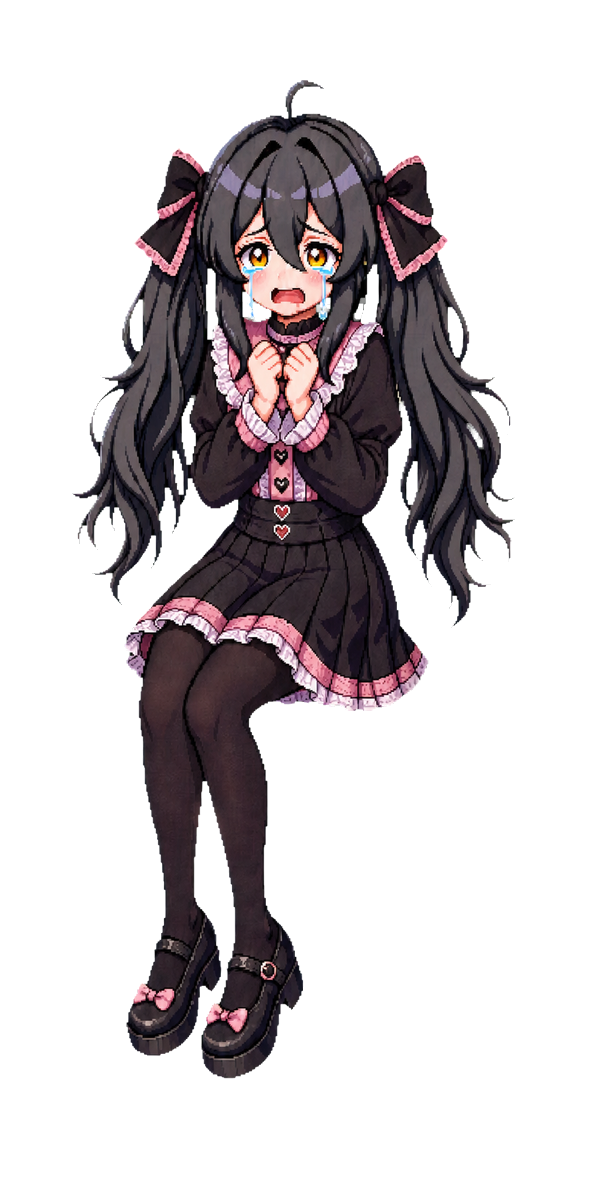
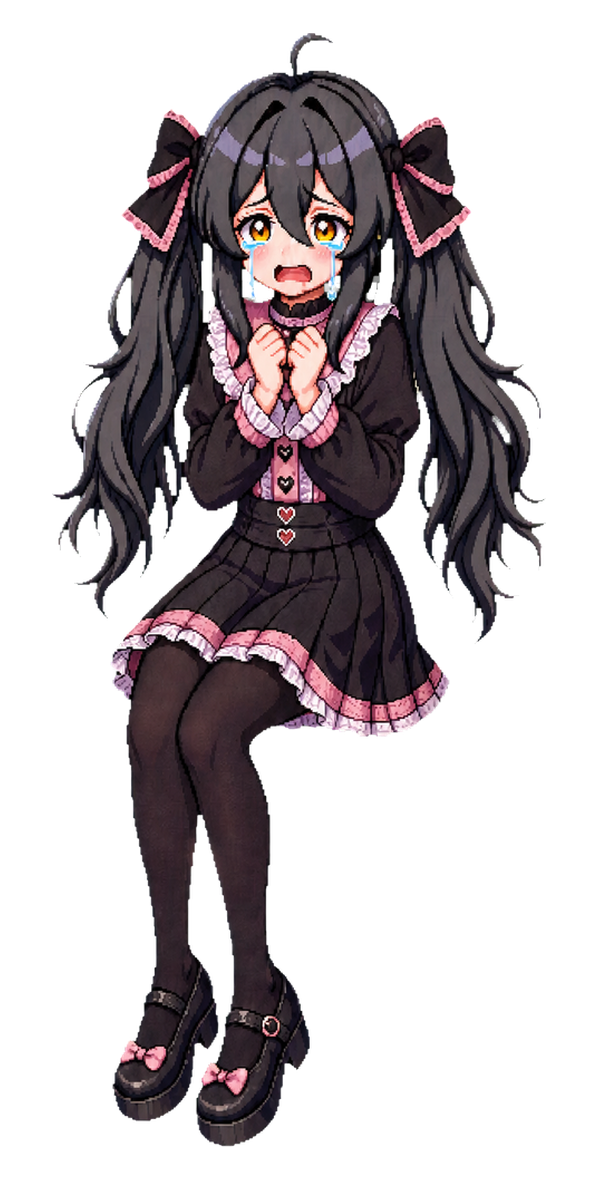
..

Changed region(s): [[0.09, 0.0305, 0.9, 0.9763]]

diff --git a/Assets/Scripts/System/TutorialManager.cs b/Assets/Scripts/System/TutorialManager.cs
@@ -28,6 +28,9 @@ namespace FXOverdose.Core
 
     public class TutorialManager : MonoBehaviour
     {
+        private const int TutorialOverlaySortingOrder = 32000;
+        private const int InteractiveControlSortingOrder = 32001;
+
         public static TutorialManager Instance { get; private set; }
 
         [Header("상태")]
@@ -119,7 +122,7 @@ namespace FXOverdose.Core
                 typeof(GraphicRaycaster));
             highlightCanvas = blockerGo.GetComponent<Canvas>();
             highlightCanvas.renderMode = RenderMode.ScreenSpaceOverlay;
-            highlightCanvas.sortingOrder = 999; // 최상단
+            highlightCanvas.sortingOrder = TutorialOverlaySortingOrder; // 다른 동적 HUD보다 항상 위
             highlightRoot = blockerGo.GetComponent<RectTransform>();
             
             GameObject bgGo = new GameObject("BlockerPanel");
@@ -140,7 +143,9 @@ namespace FXOverdose.Core
             yield return new WaitForEndOfFrame();
             Canvas.ForceUpdateCanvases();
 
-            AutoBindHighlights();
+            // 동적 HUD의 Awake/Start 생성 순서가 튜토리얼보다 늦어도 모든 대상을 찾을 수 있도록
+            // 한 프레임짜리 단발 바인딩 대신 여러 프레임 동안 재시도합니다.
+            yield return StartCoroutine(BindHighlightsWhenReady());
 
             SetButtonsInteractable(false);
             DisableAllHighlights();
@@ -223,14 +228,16 @@ namespace FXOverdose.Core
                 btn.gameObject.AddComponent<GraphicRaycaster>();
             }
             canvas.overrideSorting = true;
-            canvas.sortingOrder = 1000;
+            canvas.sortingOrder = InteractiveControlSortingOrder;
         }
 
         private void ResetToNormal(Button btn)
         {
             if (btn == null) return;
             var canvas = btn.gameObject.GetComponent<Canvas>();
-            if (canvas != null && canvas.overrideSorting && canvas.sortingOrder == 1000)
+            if (canvas != null &&
+                canvas.overrideSorting &&
+                canvas.sortingOrder == InteractiveControlSortingOrder)
             {
                 Destroy(btn.gameObject.GetComponent<GraphicRaycaster>());
                 Destroy(canvas);
@@ -252,7 +259,7 @@ namespace FXOverdose.Core
                 var topBar = FindAnyObjectByType<FXOverdose.UI.TopBar.TopStatusBarUIController>();
                 if (topBar != null && topBar.TutorialBalanceHighlightTarget != null)
                 {
-                    Transform targetBg = FindCardByName(topBar.TutorialBalanceHighlightTarget);
+                    Transform targetBg = topBar.TutorialBalanceHighlightTarget.parent;
                     balanceHighlight = CreateHighlightOverlay(targetBg);
                 }
             }
@@ -279,8 +286,7 @@ namespace FXOverdose.Core
                 var vitals = FindAnyObjectByType<VitalsValueUI>();
                 if (vitals != null && vitals.TutorialMentalHighlightTarget != null)
                 {
-                    Transform targetBg = FindCardByName(vitals.TutorialMentalHighlightTarget);
-                    mentalHighlight = CreateHighlightOverlay(targetBg);
+                    mentalHighlight = CreateHighlightOverlay(vitals.TutorialMentalHighlightTarget);
                 }
             }
 
@@ -299,6 +305,37 @@ namespace FXOverdose.Core
                     : GameObject.Find("CharacterLevelExpHUD")?.GetComponent<RectTransform>();
                 if (levelHud != null) levelHighlight = CreateHighlightOverlay(levelHud);
             }
+        }
+
+        private IEnumerator BindHighlightsWhenReady()
+        {
+            const int maxBindFrames = 60;
+            for (int frame = 0; frame < maxBindFrames; frame++)
+            {
+                AutoBindHighlights();
+                if (AreAllHighlightsBound()) yield break;
+
+                yield return null;
+                Canvas.ForceUpdateCanvases();
+            }
+
+            Debug.LogWarning(
+                $"[TutorialManager] 일부 하이라이트 대상 바인딩 지연: " +
+                $"chart={chartHighlight != null}, balance={balanceHighlight != null}, " +
+                $"margin={marginHighlight != null}, leverage={leverageHighlight != null}, " +
+                $"mental={mentalHighlight != null}, shop={shopHighlight != null}, level={levelHighlight != null}",
+                this);
+        }
+
+        private bool AreAllHighlightsBound()
+        {
+            return chartHighlight != null &&
+                   balanceHighlight != null &&
+                   marginHighlight != null &&
+                   leverageHighlight != null &&
+                   mentalHighlight != null &&
+                   shopHighlight != null &&
+                   levelHighlight != null;
         }
 
         private Transform FindCardByName(Transform start)
@@ -359,6 +396,13 @@ namespace FXOverdose.Core
 
         private void LateUpdate()
         {
+            // 머지나 동적 UI 생성 순서 변화로 초기 바인딩을 놓쳐도 실행 중 자동 복구합니다.
+            if (Time.frameCount % 30 == 0 && !AreAllHighlightsBound())
+            {
+                Canvas.ForceUpdateCanvases();
+                AutoBindHighlights();
+            }
+
             foreach (KeyValuePair<GameObject, RectTransform> pair in highlightTargets)
             {
                 if (pair.Key == null || !pair.Key.activeSelf || pair.Value == null) continue;
@@ -386,9 +430,7 @@ namespace FXOverdose.Core
                 if (!RectTransformUtility.ScreenPointToLocalPointInRectangle(
                         highlightRoot,
                         screenPoint,
-                        highlightCanvas != null && highlightCanvas.renderMode != RenderMode.ScreenSpaceOverlay
-                            ? highlightCanvas.worldCamera
-                            : null,
+                        null,
                         out Vector2 localPoint))
                 {
                     continue;
@@ -400,7 +442,7 @@ namespace FXOverdose.Core
 
             if (float.IsInfinity(min.x) || float.IsInfinity(min.y)) return;
 
-            const float padding = 8f;
+            const float padding = 4f;
             RectTransform overlayRect = overlay.GetComponent<RectTransform>();
             overlayRect.anchoredPosition = (min + max) * 0.5f;
             overlayRect.sizeDelta = max - min + Vector2.one * padding * 2f;

diff --git a/docs/bluem_dev.md b/docs/bluem_dev.md
@@ -1246,6 +1246,18 @@ bluem이 구현한 기능과 검증 결과를 기록하는 문서입니다.
 - `Assets/Resources/Characters/Costumes/JiraiKei_TwinTails.png.meta`
 - `Assets/Resources/Characters/Costumes/JiraiKei_TwinTails/`
 
+### 지뢰계 캐릭터 표시 크기 통일
+
+- 지뢰계 스프라이트가 기본 캐릭터보다 약 `8~17%` 작게 보이던 크기 차이를 수정했습니다.
+- 기본·감정·아이템·포지션·스킬·오버도즈 30장을 각각 대응하는 기본 캐릭터 스프라이트의 알파 높이와 하단 위치에 맞춰 개별 확대했습니다.
+- `600×1180` 캔버스와 전체 Sprite Rect를 유지하고, 확대된 양갈래가 좌우 경계를 넘지 않도록 중앙 정렬했습니다.
+- 표정, 포즈, 의상과 소품은 변경하지 않고 픽셀 크기만 보정했습니다.
+
+관련 파일:
+
+- `Assets/Resources/Characters/Costumes/JiraiKei_TwinTails.png`
+- `Assets/Resources/Characters/Costumes/JiraiKei_TwinTails/`
+
 ### 튜토리얼 UI 하이라이트 화면 좌표 추적
 
 - 대상 UI의 자식으로 테두리를 생성하던 방식을 제거하고, 최상단 튜토리얼 캔버스에서 대상의 화면 좌표를 매 프레임 추적하도록 변경했습니다.
@@ -1261,6 +1273,29 @@ bluem이 구현한 기능과 검증 결과를 기록하는 문서입니다.
 - `Assets/Scripts/UI/TopBar/TopStatusBarUIController.cs`
 - `Assets/Scripts/UI/VitalsValueUI.cs`
 - `Assets/Scripts/UI/TraderLevelUIController.cs`
+
+### 튜토리얼 하이라이트 동적 바인딩 복구
+
+- 머지 이후 동적 HUD 생성보다 하이라이트 단발 바인딩이 먼저 실행되어 전체 대상이 비어 있을 수 있는 타이밍 문제를 수정했습니다.
+- 튜토리얼 시작 시 최대 60프레임 동안 차트·잔고·증거금·레버리지·멘탈·상점·레벨 대상을 재탐색합니다.
+- 실행 중에도 누락된 대상이 있으면 30프레임 간격으로 자동 복구하며, 바인딩 지연 시 대상별 상태를 경고 로그로 남깁니다.
+- 하이라이트 Canvas의 정렬 순위를 `32000`으로 높이고 화면 좌표를 매 프레임 추적해 서로 다른 UI 계층에서도 정확한 외곽 크기를 유지합니다.
+- 내부 점등 면은 제거하고 4px 여백의 노란색 테두리만 표시합니다.
+- 잔고는 `BalanceCard`, 멘탈은 HP까지 포함한 상위 패널이 아닌 실제 Mental Rect를 직접 강조하도록 대상을 좁혔습니다.
+
+관련 파일:
+
+- `Assets/Scripts/System/TutorialManager.cs`
+
+### 튜토리얼 수동매매 버튼 클릭 복구
+
+- 하이라이트·블로커 Canvas를 `32000`으로 올린 뒤 롱·숏 허용 버튼이 기존 정렬 순위 `1000`에 남아 투명 블로커가 클릭을 가로채던 문제를 수정했습니다.
+- 튜토리얼에서 조작을 허용하는 롱·숏·청산·레버리지·상점 버튼을 블로커보다 높은 `32001`로 올립니다.
+- 단계가 끝나면 추가 Canvas와 Raycaster를 제거해 일반 UI 정렬 상태로 복원합니다.
+
+관련 파일:
+
+- `Assets/Scripts/System/TutorialManager.cs`
 
 ### 튜토리얼 대화 진행 화살표
 
